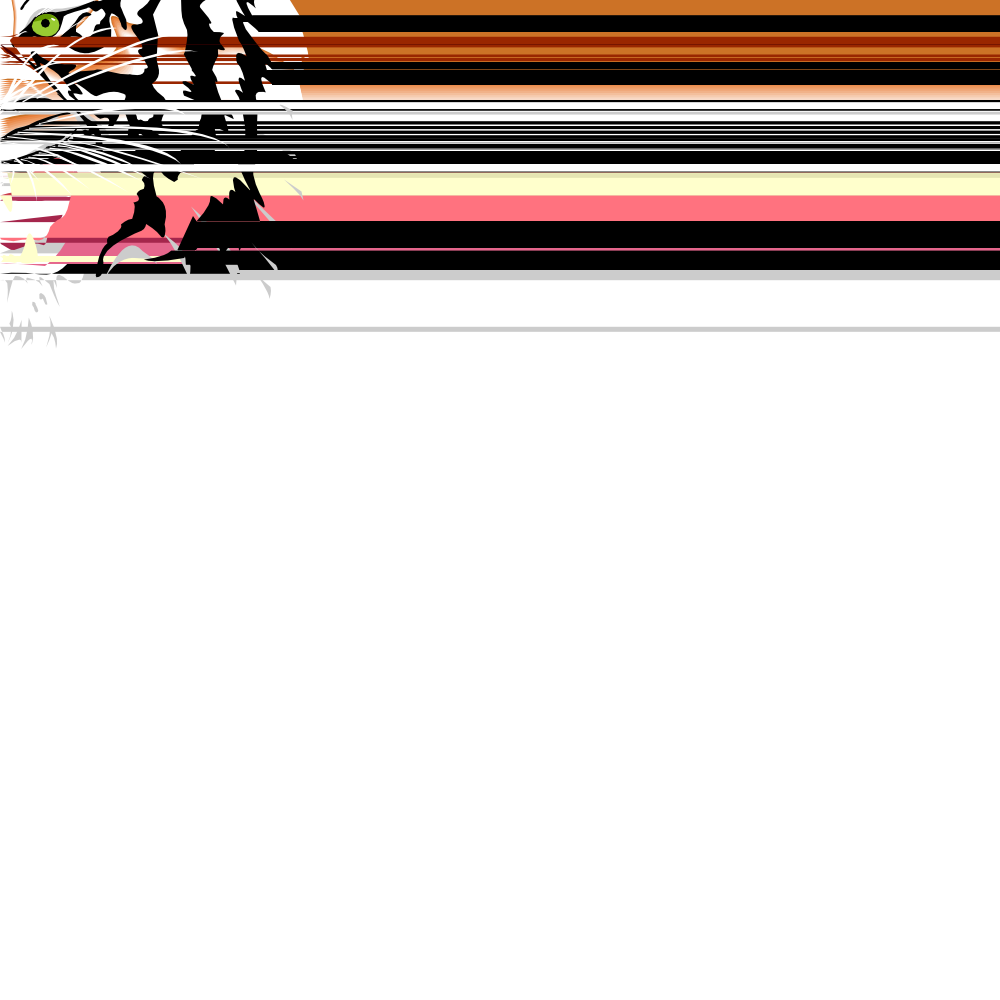
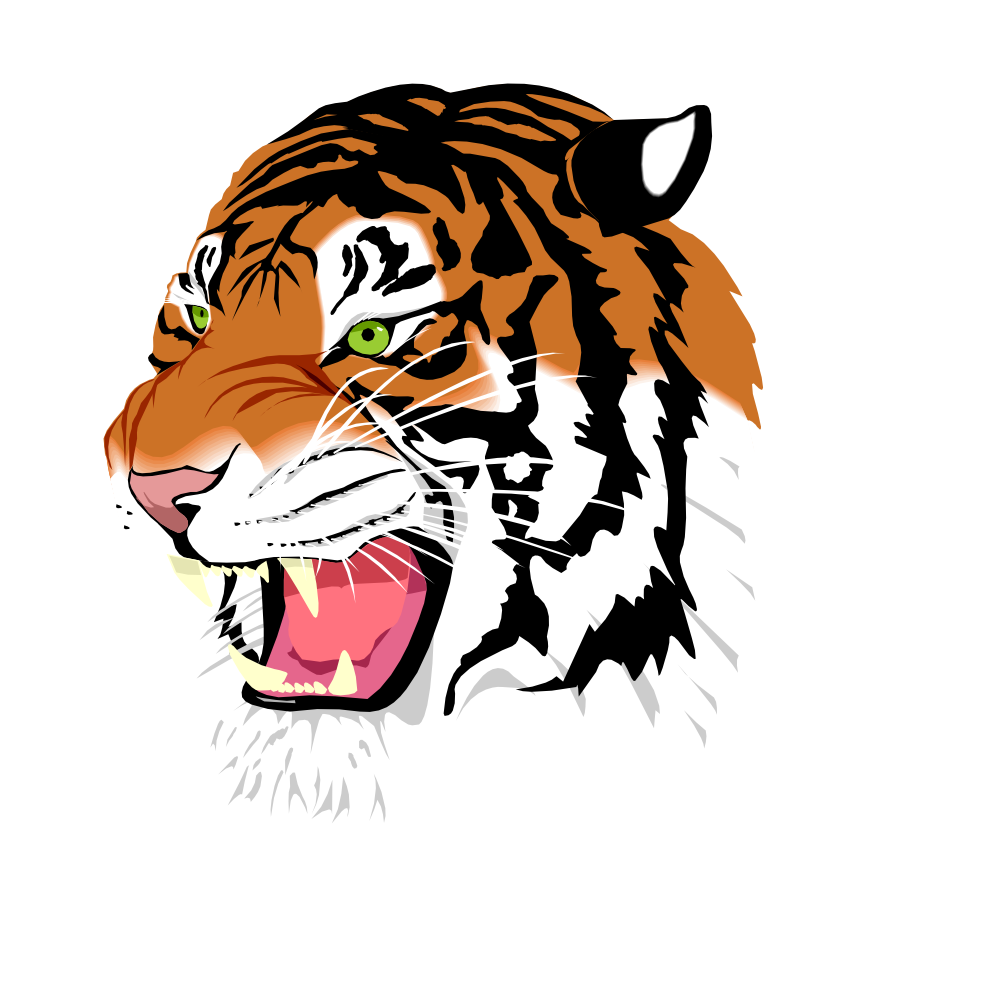
wtf, why does this work

diff --git a/src/main.rs b/src/main.rs
@@ -1,111 +1,50 @@
-use std::{fs, ops::Deref};
+use std::env;
 
-use image::{ImageFormat, Rgba32FImage, RgbaImage};
-use usvg::{Color, FillRule};
+use usvg::Color;
 
 use crate::{
-    path::{Path, Point, point},
+    path::{Path, point},
     raster::Canvas,
+    tiger::draw_svg_file,
 };
 
 mod path;
 mod raster;
-
-use usvg::tiny_skia_path::PathSegment as UPathSegment;
+mod tiger;
 
 fn main() {
-    let mut canvas = Canvas::new(1000, 1000);
-
-    let svg = fs::read_to_string("tiger.svg").unwrap();
-    let opt = usvg::Options {
-        ..usvg::Options::default()
-    };
-
-    let tree = usvg::Tree::from_str(&svg, &opt).unwrap();
-    walk(&tree.root(), &mut canvas);
-
-    canvas.offset = point(500.0, 500.0);
-    canvas.save("tiger.png");
-}
-
-fn walk(parent: &usvg::Group, canvas: &mut Canvas) {
-    for node in parent.children() {
-        // do stuff...
-        match node {
-            usvg::Node::Group(group) => walk(group, canvas),
-            usvg::Node::Path(p) => {
-                let path: Path = p.deref().into();
-                if let Some(fill) = p.fill() {
-                    match fill.paint() {
-                        usvg::Paint::Color(color) => {
-                            canvas.fill_scanline(&path, color, fill.opacity().to_u8());
-                        }
-                        usvg::Paint::LinearGradient(_) => {}
-                        usvg::Paint::RadialGradient(_) => {}
-                        usvg::Paint::Pattern(_) => {}
-                    }
-                }
-            }
-            _ => {}
+    let args: Vec<String> = env::args().collect();
+    if let Some(last) = args.last() {
+        if last.ends_with(".svg") {
+            println!("Drawing {last}");
+            draw_svg_file(last);
         }
-
-        // handle subroots as well
-        node.subroots(|subroot| walk(subroot, canvas));
+    } else {
+        draw_stuff();
     }
 }
 
-impl From<&usvg::Path> for Path {
-    fn from(value: &usvg::Path) -> Self {
-        let mut path = Path::new();
-        for segment in value.data().segments() {
-            match segment {
-                UPathSegment::MoveTo(p) => path.move_to(p.into()),
-                UPathSegment::LineTo(p) => path.line_to(p.into()),
-                UPathSegment::QuadTo(c1, p) => path.quad_to(p.into(), c1.into()),
-                UPathSegment::CubicTo(c1, c2, p) => path.cubic_to(p.into(), c1.into(), c2.into()),
-                UPathSegment::Close => path.close(),
-            };
-        }
+fn draw_stuff() {
+    let mut canvas = Canvas::new(800, 600);
+    let mut path = Path::new();
 
-        path
-    }
+    // counter clockwise
+    // we need to ensure that eveverything are counter clockwise
+    path.move_to(point(50.0, 0.0))
+        .line_to(point(30.0, 330.0))
+        .line_to(point(100.0, 300.0))
+        .quad_to(point(50.0, 0.0), point(100.0, 0.0))
+        .close();
+
+    path.move_to(point(250.0, 0.0))
+        .quad_to(point(300.0, 300.0), point(300.0, 0.0))
+        .line_to(point(230.0, 330.0))
+        // .line_to(point(300.0, 300.0))
+        .close();
+
+    let color = Color::new_rgb(255, 0, 0);
+    canvas.fill_scanline(&path, &color, 128);
+    // fill_scanline(&path, &mut img, &color);
+
+    canvas.save("scanline.png");
 }
-
-impl From<usvg::tiny_skia_path::Point> for Point {
-    fn from(value: usvg::tiny_skia_path::Point) -> Self {
-        point(value.x, value.y)
-    }
-}
-
-// fn draw_stuff() {
-//     let width = 800;
-//     let height = 600;
-//     let mut img = RgbaImage::new(width, height);
-
-//     let mut path = Path::new();
-
-//     // counter clockwise
-//     // we need to ensure that eveverything are counter clockwise
-//     path.move_to(point(0.0, 0.0))
-//         .line_to(point(0.0, 200.0))
-//         .line_to(point(200.0, 200.0))
-//         .cubic_to(point(0.0, 0.0), point(200.0, 0.0), point(0.0, 200.0))
-//         .close();
-
-//     path.move_to(point(250.0, 0.0))
-//         .line_to(point(230.0, 330.0))
-//         .line_to(point(300.0, 300.0))
-//         .quad_to(point(250.0, 0.0), point(300.0, 0.0))
-//         .close();
-
-//     path.move_to(point(50.0, 250.0))
-//         .line_to(point(50.0, 350.0))
-//         .line_to(point(150.0, 350.0))
-//         .close();
-
-//     let color = Color::new_rgb(255, 0, 0);
-//     // fill_scanline(&path, &mut img, &color);
-
-//     let save_path = std::path::Path::new("scanline.png");
-//     img.save_with_format(&save_path, ImageFormat::Png).unwrap();
-// }

diff --git a/src/tiger.rs b/src/tiger.rs
@@ -1,0 +1,78 @@
+use std::{fs, ops::Deref};
+
+use image::{ImageFormat, Rgba32FImage, RgbaImage};
+use usvg::{Color, FillRule};
+
+use crate::{
+    path::{Path, Point, point},
+    raster::Canvas,
+};
+
+use usvg::tiny_skia_path::PathSegment as UPathSegment;
+
+
+pub fn draw_svg_file(filename: &str) {
+    let svg = fs::read_to_string(filename).unwrap();
+    let opt = usvg::Options {
+        ..usvg::Options::default()
+    };
+
+    let tree = usvg::Tree::from_str(&svg, &opt).unwrap();
+    let root = tree.root();
+
+    let mut canvas = Canvas::new(1000, 1000);
+    canvas.offset = point(300.0, 300.0);
+    canvas.scale = 1.5;
+    walk(root, &mut canvas);
+
+    canvas.save("tiger.png");
+}
+
+fn walk(parent: &usvg::Group, canvas: &mut Canvas) {
+    for node in parent.children() {
+        // do stuff...
+        match node {
+            usvg::Node::Group(group) => walk(group, canvas),
+            usvg::Node::Path(p) => {
+                let path: Path = p.deref().into();
+                if let Some(fill) = p.fill() {
+                    match fill.paint() {
+                        usvg::Paint::Color(color) => {
+                            canvas.fill_scanline(&path, color, fill.opacity().to_u8());
+                        }
+                        usvg::Paint::LinearGradient(_) => {}
+                        usvg::Paint::RadialGradient(_) => {}
+                        usvg::Paint::Pattern(_) => {}
+                    }
+                }
+            }
+            _ => {}
+        }
+
+        // handle subroots as well
+        node.subroots(|subroot| walk(subroot, canvas));
+    }
+}
+
+impl From<&usvg::Path> for Path {
+    fn from(value: &usvg::Path) -> Self {
+        let mut path = Path::new();
+        for segment in value.data().segments() {
+            match segment {
+                UPathSegment::MoveTo(p) => path.move_to(p.into()),
+                UPathSegment::LineTo(p) => path.line_to(p.into()),
+                UPathSegment::QuadTo(c1, p) => path.quad_to(p.into(), c1.into()),
+                UPathSegment::CubicTo(c1, c2, p) => path.cubic_to(p.into(), c1.into(), c2.into()),
+                UPathSegment::Close => path.close(),
+            };
+        }
+
+        path
+    }
+}
+
+impl From<usvg::tiny_skia_path::Point> for Point {
+    fn from(value: usvg::tiny_skia_path::Point) -> Self {
+        point(value.x, value.y)
+    }
+}

diff --git a/src/path.rs b/src/path.rs
@@ -268,7 +268,7 @@ impl SubPath {
         let mut out = vec![];
         for segment in self.segments.iter().rev() {
             match segment {
-                PathSegment::Line(p2, p1) => {
+                PathSegment::Line(p1, p2) => {
                     out.push(PathSegment::Line(*p2, *p1));
                 }
                 PathSegment::Quadratic(QuadraticBezier {
@@ -437,14 +437,13 @@ impl Path {
 
         // println!("subpaths count = {}", subpaths.len());
 
-        for mut subpath in subpaths {
-            // TODO: fuckkkk, path direction
-            let area = subpath.shoelace();
-            if area.is_sign_positive() {
-                subpath.reverse();
-                // println!("reversing {subpath:.?}");
-            }
-            // println!("reversing {subpath:.?}");
+        for (index, mut subpath) in subpaths.into_iter().enumerate() {
+            // let area = subpath.shoelace();
+            // if area.is_sign_positive() {
+            //     println!("before [{index}] {subpath:.?}");
+            //     subpath.reverse();
+            //     println!("reversing [{index}] {subpath:.?}");
+            // }
             subpath.write_lines(&mut out);
         }
 